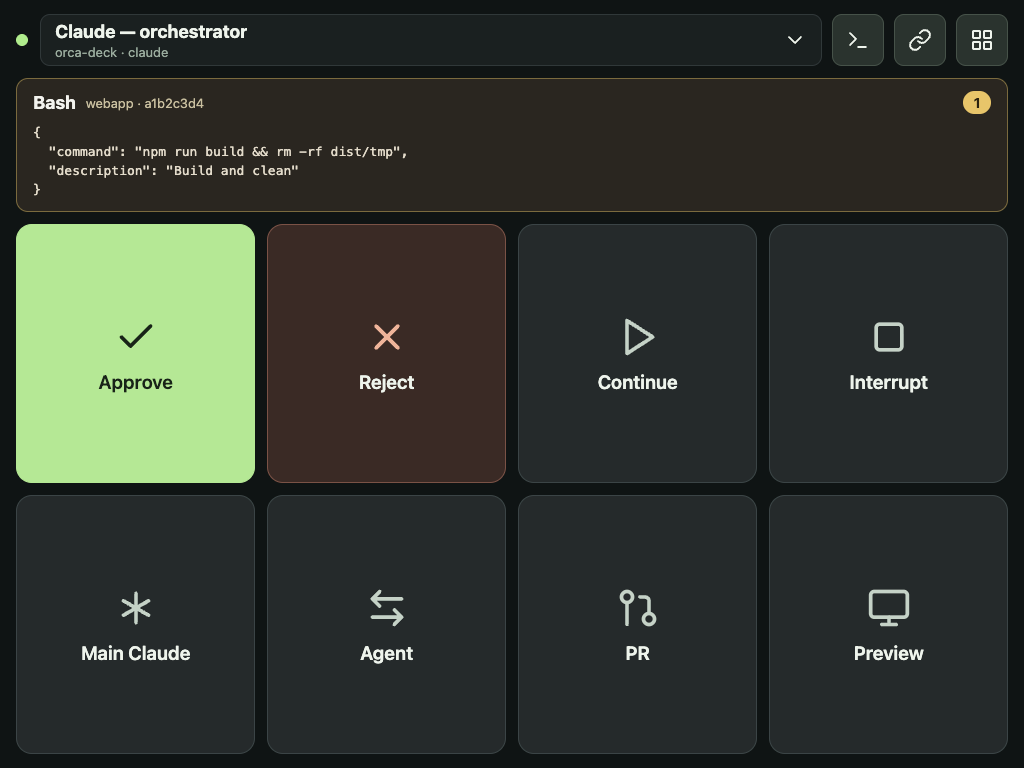
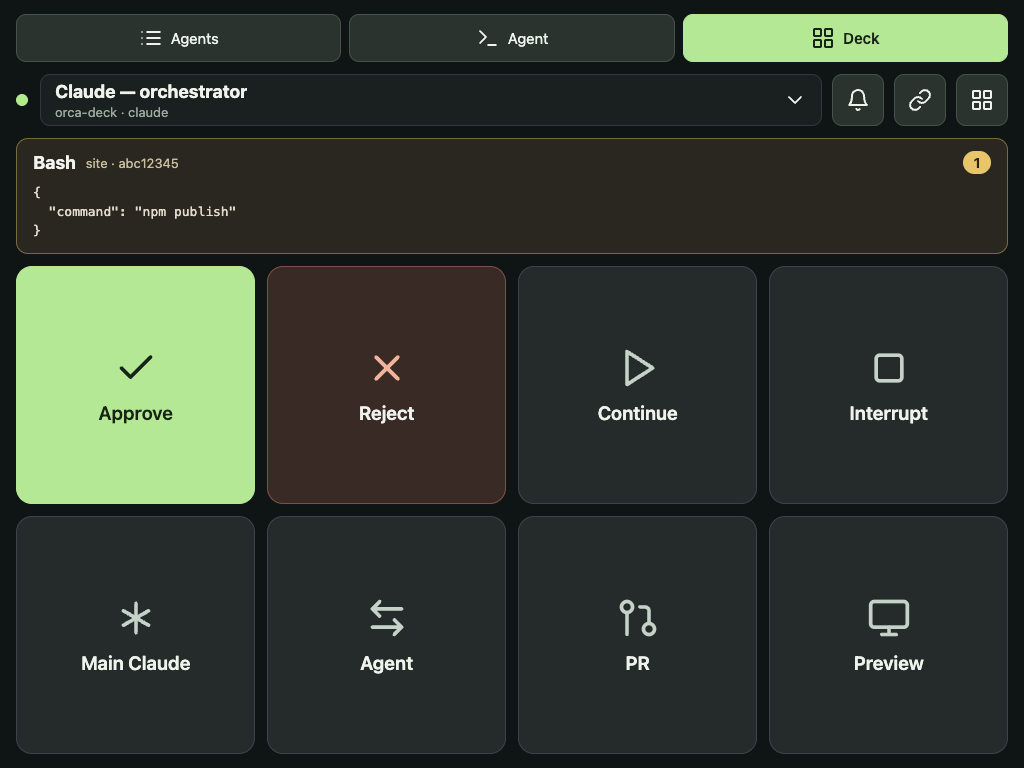
docs: README and screenshots for Agents, Agent and alerts
Claude-Session: https://claude.ai/code/session_01GnLWahVSdUFHm44EyF1deC

diff --git a/README.md b/README.md
@@ -1,17 +1,17 @@
 # Orca Deck
 
-A one-screen control deck for Orca agent terminals, built for an old iPad (tested target: iPad mini 3 / iOS 12.5.8 Safari). Approve or reject Claude Code permission requests, nudge agents, and open PRs/previews on your Mac, all from a tablet sitting next to it. No app install, no dependencies, and nothing leaves your local network.
+A control deck for Orca agent terminals that runs in the browser of an iPad, phone or any device on your home Wi‑Fi (tested target: iPad mini 3 / iOS 12.5.8 Safari). See every agent at a glance, read and reply to one, approve or reject Claude Code permission requests, and get a chime when an agent needs you. No app install, no dependencies, and nothing leaves your local network.
 
-| Deck | Session details | Edit layout |
+| Deck (iPad) | Agents (phone) | Agent (phone) |
 |---|---|---|
-| ![Deck with a pending Claude request](docs/deck.png) | ![Live terminal screen of the selected session](docs/details.png) | ![Reordering and hiding keys](docs/edit-layout.png) |
+| ![Deck with a pending Claude request](docs/deck.png) | ![Every agent with its status and a pending request](docs/agents.png) | ![Live screen, key row, saved replies and reply box](docs/agent.png) |
 
 ## Architecture
 
 ```mermaid
 flowchart LR
-  subgraph iPad["iPad (Safari, same Wi‑Fi)"]
-    UI["public/ UI<br/>ES5 + XHR, polls every 2s"]
+  subgraph iPad["iPad / phone browser (same Wi‑Fi)"]
+    UI["public/ UI<br/>app.js, agents.js, agent.js, alerts.js<br/>ES5 + XHR, polls every 2s"]
   end
   subgraph Mac["Mac"]
     Server["server.js<br/>Node HTTP :8766"]
@@ -21,7 +21,7 @@ flowchart LR
     Open["/usr/bin/open<br/>PR and preview links"]
     Local[(".local/runtime.json<br/>PIN, tokens, links")]
   end
-  UI -- "pair (PIN) → bearer token<br/>/api/state, /api/action,<br/>/api/decision, /api/details" --> Server
+  UI -- "pair (PIN) → bearer token<br/>/api/state, /api/action, /api/send,<br/>/api/decision, /api/details, /api/snippets" --> Server
   Claude -- "permission request" --> Hook
   Hook -- "POST /api/hook (loopback + hook token)<br/>waits for decision ≤ 3 min" --> Server
   Server -- "allow / deny / no answer" --> Hook
@@ -32,7 +32,7 @@ flowchart LR
 
 - **server.js** serves the UI and a small JSON API. It holds pending permission requests in memory only and controls terminals through the `orca` CLI.
 - **hook.py** is a Claude Code `PermissionRequest` hook. It forwards each request to the server and blocks until you tap Approve or Reject on the iPad. If the deck isn't open, the server isn't running, or 3 minutes pass, it returns nothing and Claude falls back to its normal in-terminal prompt.
-- **public/** is the iPad UI: plain HTML, CSS and ES5 JavaScript so it runs on iOS 12.
+- **public/** is the UI: plain HTML, CSS and ES5 JavaScript so it runs on iOS 12. `app.js` is the shell and Deck view; `agents.js`, `agent.js` and `alerts.js` add the Agents view, the Agent view and alerts.
 
 ## Requirements
 
@@ -60,9 +60,11 @@ Tip: In Safari, use Share → Add to Home Screen for a full-screen app, and turn
 
 ## Using the deck
 
-**Top bar:** connection dot, the selected agent (tap to switch), session details, links, and layout edit.
+**Tabs:** **Agents**, **Agent** and **Deck**. They sit at the bottom on narrow screens and at the top on wide ones. Phones open on Agents, tablets on Deck; the last tab you used is remembered per device.
 
-**Approval card:** appears only while Claude is waiting. It shows the tool, project, session ID and the exact input. With more than one request, pick one from the list. Selecting a terminal and selecting a request are separate on purpose: a project can run several Claude sessions, so the deck never guesses which session a request belongs to.
+**Top bar:** connection dot, the selected agent (tap to switch), sound on/off, links, and layout edit (Deck only).
+
+**Approval card:** appears on every tab while Claude is waiting; on Agents and Agent it has its own Approve and Reject buttons. It shows the tool, project, session ID and the exact input. With more than one request, pick one from the list. Selecting a terminal and selecting a request are separate on purpose: a project can run several Claude sessions, so the deck never guesses which session a request belongs to.
 
 | Key | What it does |
 |---|---|
@@ -74,7 +76,11 @@ Tip: In Safari, use Share → Add to Home Screen for a full-screen app, and turn
 | **Agent** | Lists running Claude/Codex terminals; tap one to focus it on the Mac, or pin a Claude session. |
 | **PR / Preview** | Opens the project's saved link on the Mac (HTTP/HTTPS only). |
 
-**Session details** (terminal icon): shows the selected agent's workspace and its current terminal screen, refreshed every 2 seconds while open. Use it to see what an agent is doing before you approve or continue.
+**Agents tab:** every Claude/Codex terminal with its status (needs approval, working, idle) and how long since its last output, with pending Claude requests listed first. Tap an agent to open it.
+
+**Agent tab:** the agent's live screen (refreshed every 2 seconds), a key row (Esc, arrows, Tab, y, n, Enter, Ctrl‑C), saved replies and a reply box. Tap a saved reply to put it in the box; the pencil edits the list, which is shared by all your devices. The header buttons show the agent on the Mac, pin it as Main Claude, and open its PR or preview. Typing is blocked while the screen shows an approval prompt or a Claude request is pending for that project; Ctrl‑C always works. If a send times out, the deck says it might have been sent and waits for a fresh screen before letting you send again.
+
+**Alerts** (while the deck is open): a chime, an amber flash and a count in the page title when an agent needs you, and a softer chime and green flash when a busy agent goes quiet (its output stopped, which doesn't always mean it finished). The bell mutes sound. iOS only plays sound after you've tapped the page once. Vibration works on Android only.
 
 **Edit layout** (grid icon): tap a key, then use ‹ › to move it, the eye to hide or show it, ↺ to reset, and **Done** to save. The layout is stored in the browser on that device. The unpair button is also here, so it's hard to hit by accident.
 
@@ -85,14 +91,18 @@ Tip: In Safari, use Share → Add to Home Screen for a full-screen app, and turn
 - Use only on a trusted local network. Traffic is plain HTTP; never expose port 8766 to the internet.
 - The iPad pairs with a one-time-shown 8-digit PIN (5 attempts per minute) and then uses a bearer token. The hook uses a separate token and is only accepted from loopback. Requests are checked for host and origin, and a strict CSP is set.
 - Every terminal action re-checks the terminal's incarnation ID, so a command is never sent to a process that replaced the one you selected.
+- Anyone paired can type into your agents. Pair only your own devices.
+- The deck answers on every network interface of the Mac, including VPNs. Keep the Mac off routed VPNs while it runs, or block port 8766 there.
+- The deck checks the screen right before typing, but a prompt that appears in the split second between the check and the keystroke could receive it.
 - Permission requests live only in memory. No transcripts or commands are written to disk.
 - `.local/` holds the PIN and tokens for this Mac. Don't share or commit it (it's gitignored).
 
 ## Limitations
 
-- Only Claude Code approvals go through the hook. Codex terminals support focus, Continue, Interrupt and details, but Codex approvals stay on the Mac.
+- Only Claude Code approvals go through the hook. Codex terminals support focus, Continue, Interrupt and the Agent tab, but Codex approvals stay on the Mac (the deck blocks typing while one is on screen).
 - Claude's sandbox network prompts and some special dialogs still need the Mac.
 - Closing the server window stops the deck; it doesn't start at login.
+- No alerts when the deck is closed or the device is locked.
 
 ## Development
 
